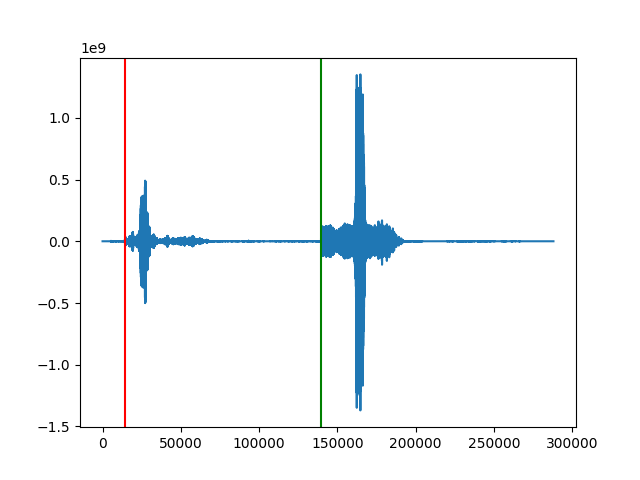
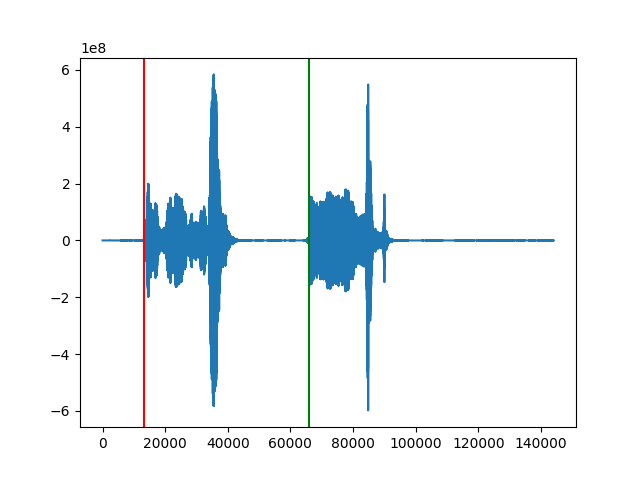
update

diff --git a/src/beep/receiver.py b/src/beep/receiver.py
@@ -41,10 +41,10 @@ def filter_bp(x,fs,wl,wh):
     return x_filter
 if __name__ == '__main__':
     fs = 48000
-    T = 1
-    f1 = 2000
-    f2 = 4000
-    f3 = 6000
+    T = 0.5
+    f1 = 4000
+    f2 = 6000
+    f3 = 8000
     t = np.linspace(0,T,round(fs*T))
     y = scipy.signal.chirp(t,f2,T,f3)
     if (getmsg()):

diff --git a/src/beep/sender.py b/src/beep/sender.py
@@ -44,10 +44,10 @@ def filter_bp(x,fs,wl,wh):
 
 if __name__ == '__main__':
     fs = 48000
-    T = 1
-    f1 = 2000
-    f2 = 4000
-    f3 = 6000
+    T =  0.5
+    f1 = 4000
+    f2 = 6000
+    f3 = 8000
     t = np.linspace(0,T,round(fs*T))
     y = scipy.signal.chirp(t,f1,T,f2)
     if(send_ready()):
